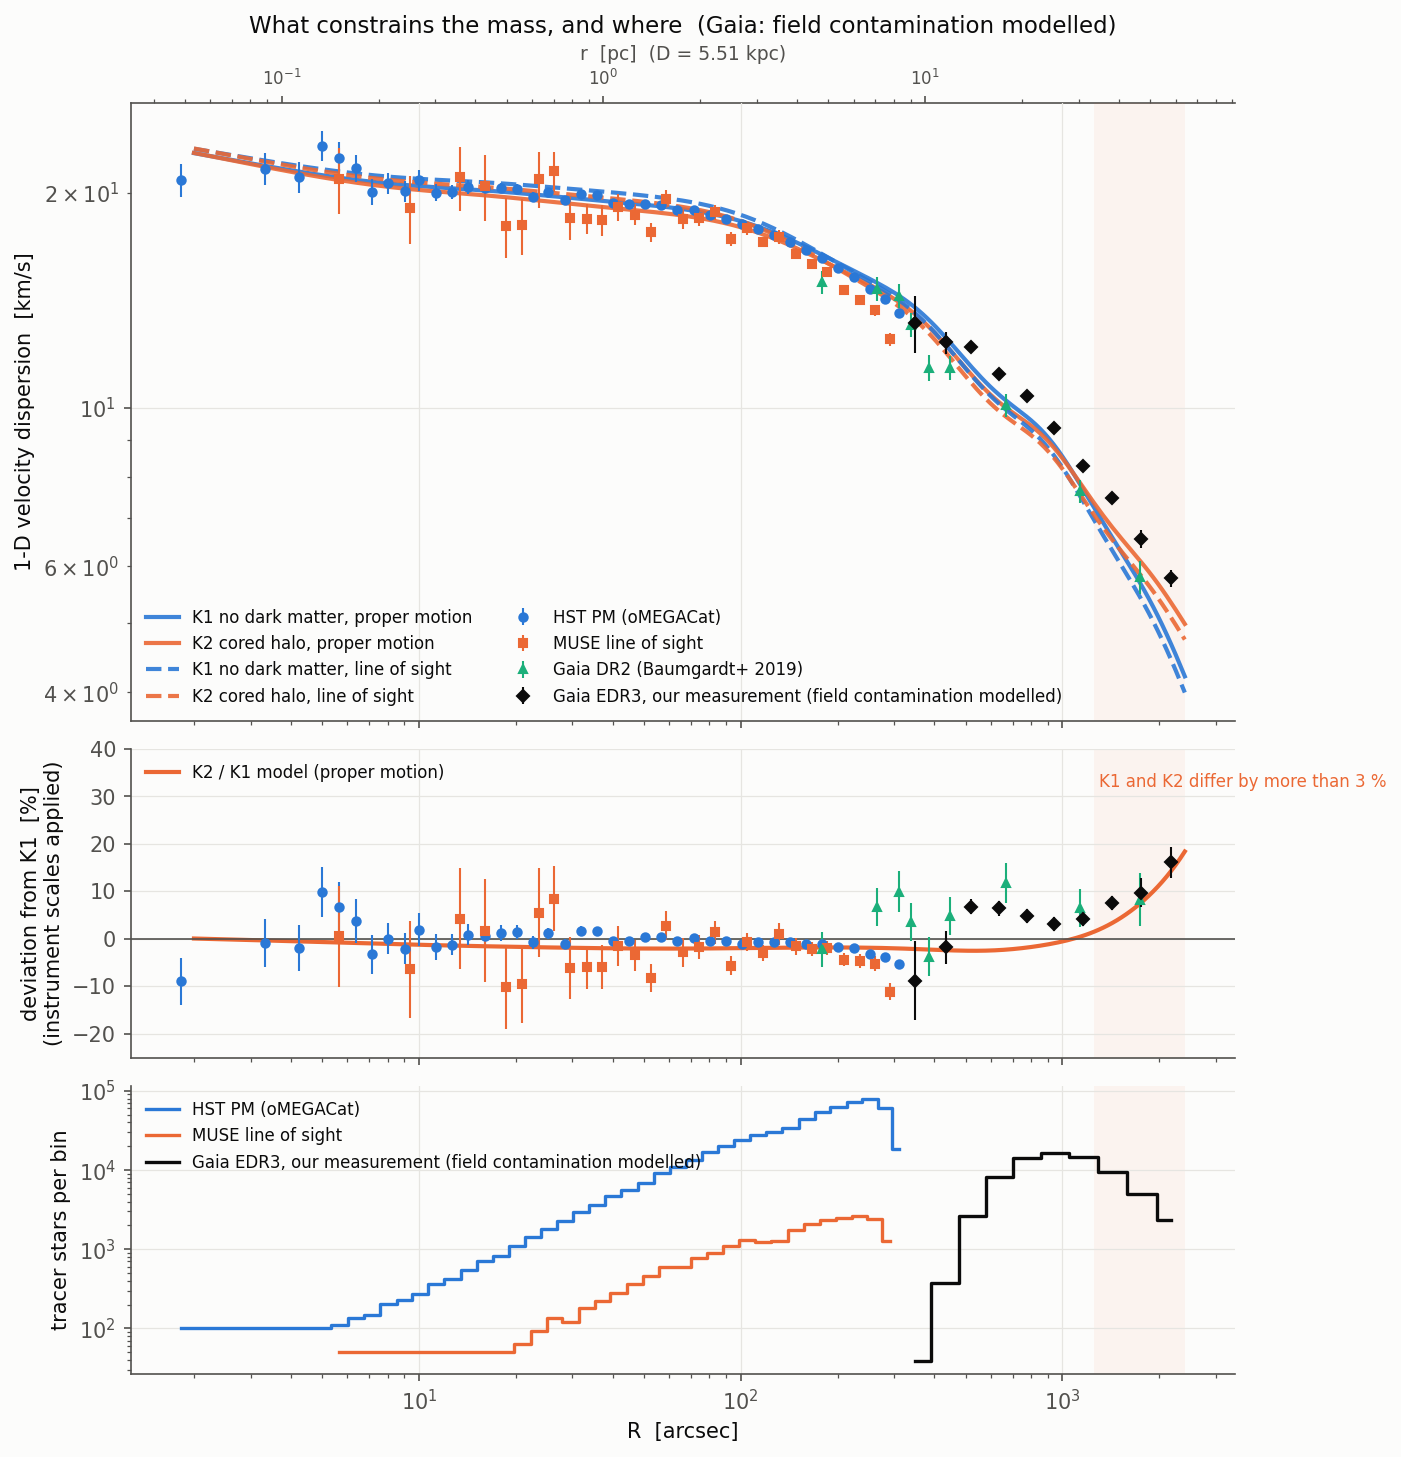
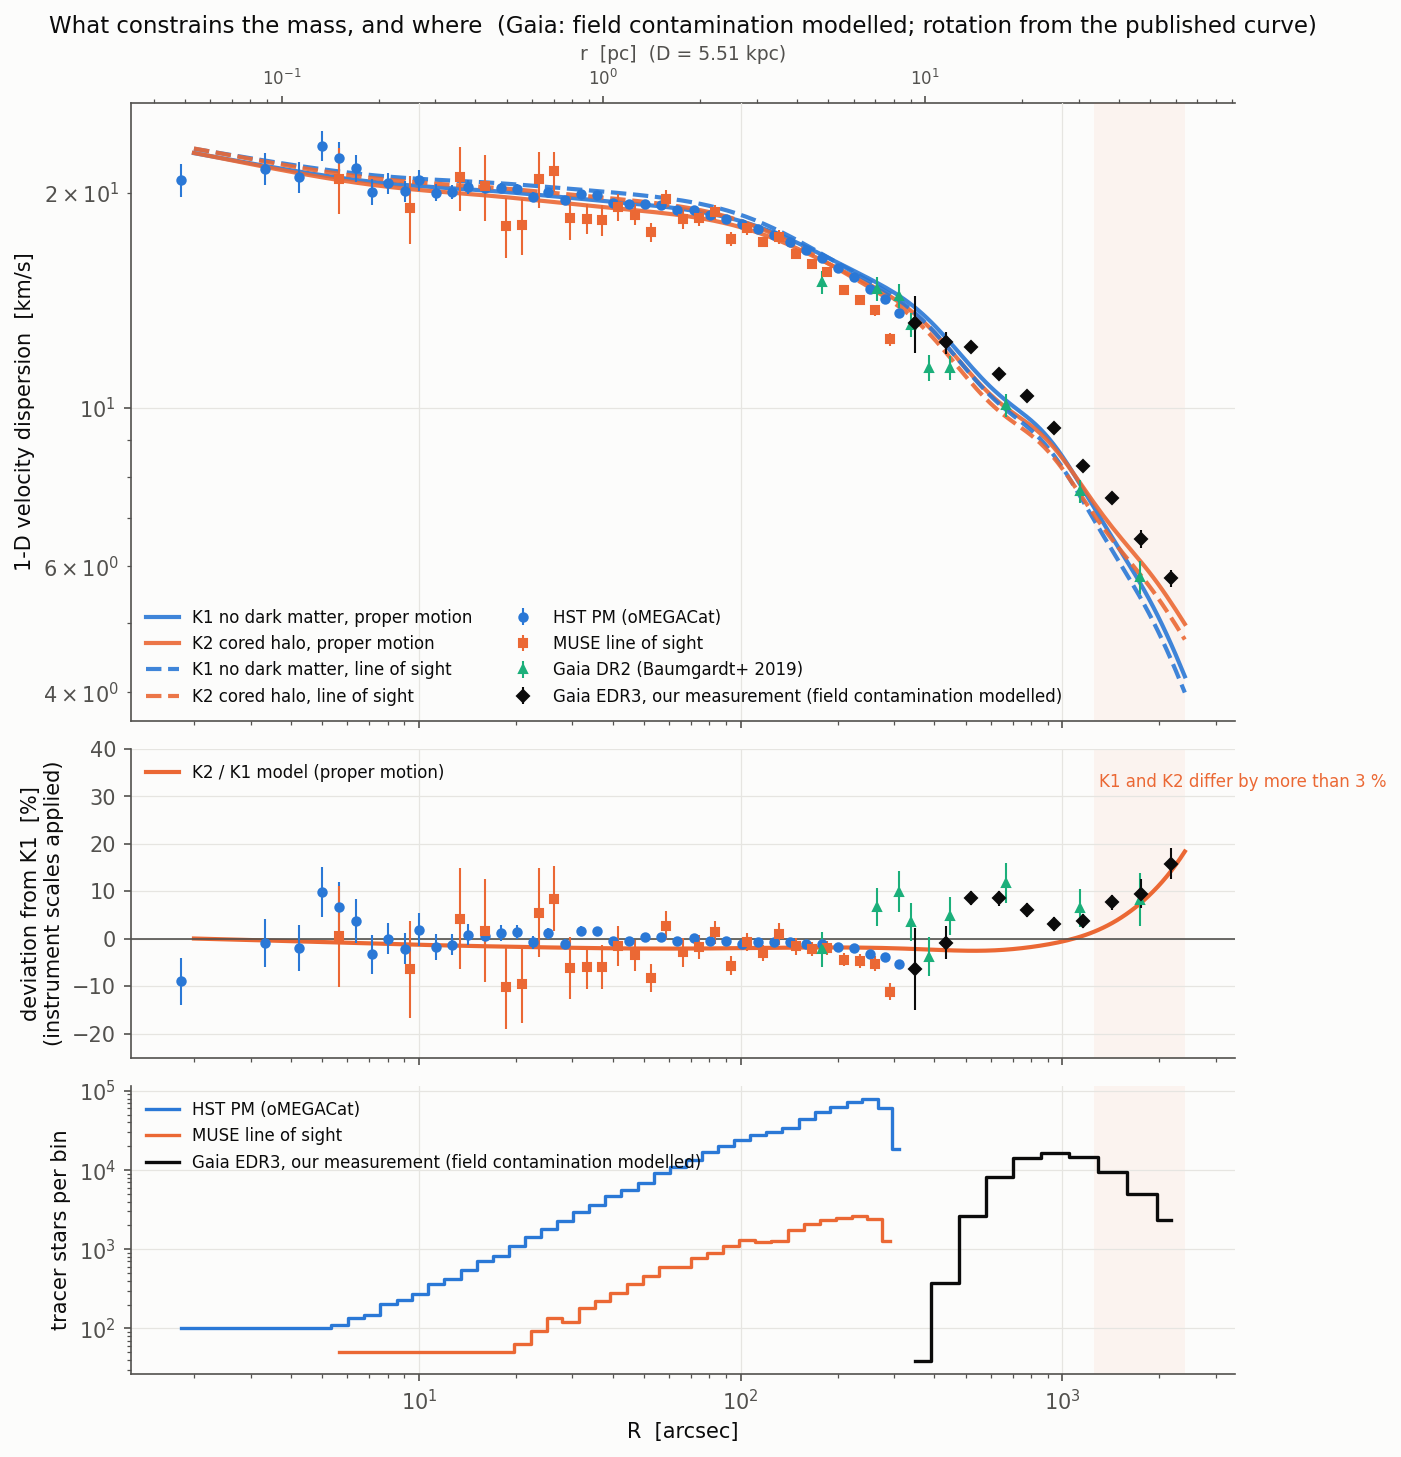
Keep both streaming treatments: four constraint maps (field modelled / P-cut) x (own means / published rotation curve)

Changed region(s): [[0.0307, 0.0, 0.9208, 0.0309], [0.7059, 0.6177, 0.7366, 0.6486], [0.6445, 0.6486, 0.6752, 0.6795]]

diff --git a/src/ocen_dm/plotting/constraints.py b/src/ocen_dm/plotting/constraints.py
@@ -138,11 +138,16 @@ def _sigma_1d_kms(jeans, D: float, R_arcsec: np.ndarray, kind: str = "pm") -> np
     return np.sqrt(0.5 * (m["pmr"] ** 2 + m["pmt"] ** 2)) if kind == "pm" else m["los"]
 
 
-def _datasets_in_kms(D: float, contamination_modelled: bool = True) -> list[dict]:
+def _datasets_in_kms(D: float, contamination_modelled: bool = True, streaming: str = "self") -> list[dict]:
     """Every dispersion dataset converted to a 1-D dispersion in km/s.
 
     ``contamination_modelled`` selects our Gaia measurement: the cluster+field mixture over
     all quality stars (True) or the P > 0.9 members with the quality flag (False).
+    ``streaming`` selects how the rotation term is removed from the model for our own
+    points: ``'self'`` uses the mean motions fitted in the same annuli as the dispersions,
+    ``'published'`` uses the Vasiliev & Baumgardt rotation curve (the original treatment,
+    kept for comparison -- it over-subtracts by 10-40 per cent near the rotation peak and
+    manufactures a wiggle at 10-20 pc, JOURNAL 2026-09-18).
     """
     k = KMS_PER_MASYR_KPC * D
     out = []
@@ -171,7 +176,7 @@ def _datasets_in_kms(D: float, contamination_modelled: bool = True) -> list[dict
     # our own fit measures the mean motions as well, so the streaming term for these points
     # is measured rather than taken from the published rotation curve
     stream2 = None
-    if "mean_pmt" in ours.colnames:
+    if streaming == "self" and "mean_pmt" in ours.colnames:
         stream2 = 0.5 * (np.asarray(ours["mean_pmr"]) ** 2 + np.asarray(ours["mean_pmt"]) ** 2) * k**2
     out.append(dict(name=name, r=np.asarray(ours["r_median"]), sigma=np.asarray(ours["sigma_pm"]) * k,
                     err=np.asarray(ours[errcol]) * k, n=n, kind="pm", color=style.INK, marker="D",
@@ -182,12 +187,12 @@ def _datasets_in_kms(D: float, contamination_modelled: bool = True) -> list[dict
 
 def plot_constraint_map(path: Path | str = "plots/constraint_map.png",
                         k1: str = "K1_noDM_composite", k2: str = "K2_cored_composite",
-                        contamination_modelled: bool = True) -> Path:
+                        contamination_modelled: bool = True, streaming: str = "self") -> Path:
     """All dispersion data in km/s with the K1 and K2 curves, their ratio, and the tracer counts."""
     style.apply()
     j1, D, s1, _ = _model(k1)
     j2, D2, s2, _ = _model(k2)
-    data = _datasets_in_kms(D, contamination_modelled)
+    data = _datasets_in_kms(D, contamination_modelled, streaming)
     R = np.geomspace(2.0, 2400.0, 220)
 
     fig, axes = plt.subplots(3, 1, figsize=(9.5, 11), sharex=True,
@@ -205,7 +210,8 @@ def plot_constraint_map(path: Path | str = "plots/constraint_map.png",
     ax.set_yscale("log"); ax.set_ylabel("1-D velocity dispersion  [km/s]")
     ax.legend(fontsize=8, ncol=2, loc="lower left")
     ax.set_title("What constrains the mass, and where"
-                 + ("  (Gaia: field contamination modelled)" if contamination_modelled else "  (Gaia: P > 0.9 members, no contamination model)"),
+                 + ("  (Gaia: field contamination modelled" if contamination_modelled else "  (Gaia: P > 0.9 members, no contamination model")
+                 + ("; rotation from our own fit)" if streaming == "self" else "; rotation from the published curve)"),
                  fontsize=11)
     add_pc_axis(ax, D)
 

diff --git a/src/ocen_dm/cli.py b/src/ocen_dm/cli.py
@@ -329,8 +329,16 @@ def cmd_plot_constraints(args: argparse.Namespace) -> int:
     for path in (plot_method_comparison(),
                  plot_annulus_fits("plots/outer_fit_annuli_radial.png", component="r"),
                  plot_annulus_fits("plots/outer_fit_annuli_tangential.png", component="t"),
-                 plot_constraint_map(k1=args.k1, k2=args.k2, contamination_modelled=True),
-                 plot_constraint_map("plots/constraint_map_pcut.png", k1=args.k1, k2=args.k2, contamination_modelled=False),
+                 # four constraint maps: {field modelled, P > 0.9} x {rotation from our own
+                 # fit, rotation from the published curve}
+                 plot_constraint_map("plots/constraint_map_selfconsistent.png", k1=args.k1, k2=args.k2,
+                                     contamination_modelled=True, streaming="self"),
+                 plot_constraint_map("plots/constraint_map.png", k1=args.k1, k2=args.k2,
+                                     contamination_modelled=True, streaming="published"),
+                 plot_constraint_map("plots/constraint_map_pcut_selfconsistent.png", k1=args.k1, k2=args.k2,
+                                     contamination_modelled=False, streaming="self"),
+                 plot_constraint_map("plots/constraint_map_pcut.png", k1=args.k1, k2=args.k2,
+                                     contamination_modelled=False, streaming="published"),
                  plot_outer_tracer_audit(reference="pcut"),
                  plot_outer_tracer_audit("plots/outer_tracer_audit_mixture.png", reference="mixture"),
                  plot_contamination_model()):

diff --git a/tests/test_constraints_plot.py b/tests/test_constraints_plot.py
@@ -88,3 +88,15 @@ def test_method_comparison_figure_and_agreement(tmp_path):
         assert np.median(np.abs(d) / e) < 2.0                # and consistent within the errors
     p = plot_method_comparison(tmp_path / "cmp.png")
     assert p.exists() and p.stat().st_size > 80_000
+
+
+@pytest.mark.skipif(not (_HAS_RUNS and _HAS_MEMBERS), reason="runs or members missing")
+def test_both_streaming_treatments_render_and_differ(tmp_path):
+    """Both versions are kept: the published rotation curve and our own fitted means."""
+    from ocen_dm.plotting.constraints import _datasets_in_kms, plot_constraint_map
+    a = _datasets_in_kms(5.43, True, "self")[-1]
+    b = _datasets_in_kms(5.43, True, "published")[-1]
+    assert a["streaming2"] is not None and b["streaming2"] is None
+    for name, stream in (("self.png", "self"), ("pub.png", "published")):
+        p = plot_constraint_map(tmp_path / name, streaming=stream)
+        assert p.exists() and p.stat().st_size > 80_000
